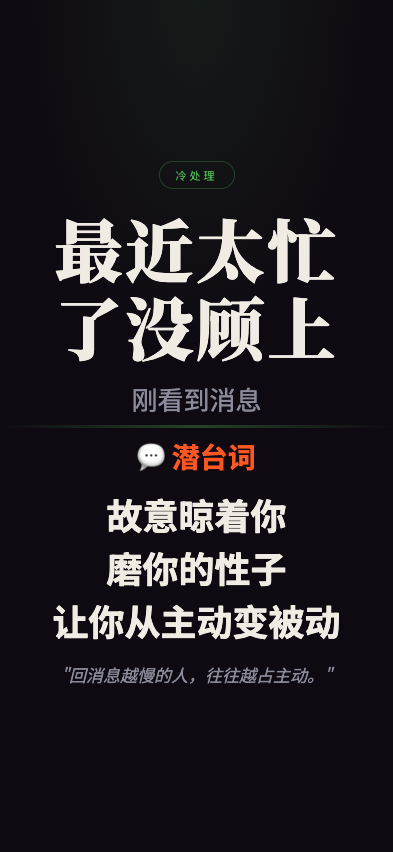
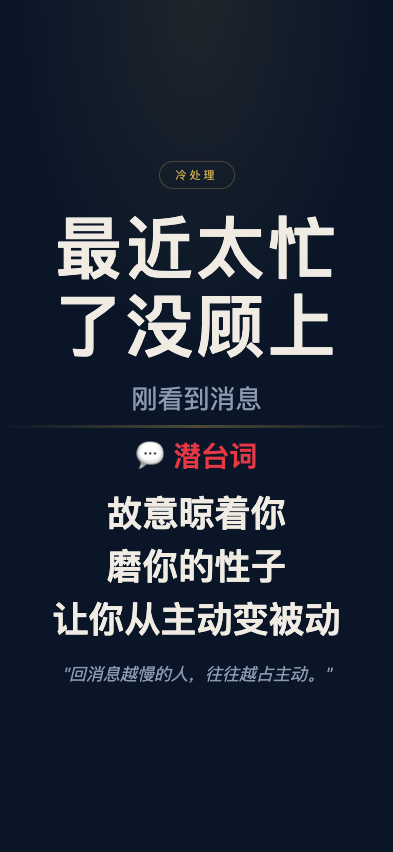
feat: 职场生存法则 screenshot - zuijintaimanglemeigushang

Changed region(s): [[0.1527, 0.2441, 0.855, 0.5493], [0.1221, 0.5798, 0.855, 0.8239], [0.4275, 0.1831, 0.5496, 0.2136]]

diff --git a/wuliao-tools/tools/biz-speak/scenes/zuijintaimanglemeigushang.html b/wuliao-tools/tools/biz-speak/scenes/zuijintaimanglemeigushang.html
@@ -7,11 +7,11 @@
 <link href="https://fonts.googleapis.com/css2?family=Noto+Serif+SC:wght@400;700;900&family=Noto+Sans+SC:wght@300;400;700&display=swap" rel="stylesheet">
 <style>
   :root {
-    --bg: #0f0a12;
+    --bg: #0a1628;
     --text: #f0ece4;
-    --text-dim: #8a8a9a;
-    --gold: #4caf50;
-    --red: #ff5722;
+    --text-dim: #8a9ab0;
+    --gold: #c9a84c;
+    --red: #e63946;
   }
   * { margin:0; padding:0; box-sizing:border-box; }
   html, body { width:100%; height:100%; overflow:hidden; }
@@ -24,11 +24,11 @@
   }
   body::before {
     content:''; position:absolute; top:0; left:0; right:0; height:45%;
-    background:radial-gradient(ellipse at 50% 0%, rgba(76,175,80,0.1) 0%, transparent 65%);
+    background:radial-gradient(ellipse at 50% 0%, rgba(201,168,76,0.1) 0%, transparent 65%);
     pointer-events:none; z-index:0;
   }
   .top { flex:1; display:flex; flex-direction:column; align-items:center; justify-content:flex-end; padding:4px 28px 8px; position:relative; z-index:1; }
-  .tag { font-size:11px; letter-spacing:3px; color:var(--gold); border:1px solid rgba(76,175,80,0.3); padding:5px 16px; border-radius:50px; margin-bottom:20px; }
+  .tag { font-size:11px; letter-spacing:3px; color:var(--gold); border:1px solid rgba(201,168,76,0.3); padding:5px 16px; border-radius:50px; margin-bottom:20px; }
   .main-title { font-family:'Noto Serif SC'; font-size:68px; font-weight:900; text-align:center; line-height:1.15; letter-spacing:3px; min-width:0; overflow-wrap:break-word; max-width:92%; }
   .sub-title { font-size:26px; color:var(--text-dim); text-align:center; margin-top:14px; }
   .divider { width:100%; height:3px; background:linear-gradient(90deg,transparent,var(--gold),transparent); opacity:0.35; flex-shrink:0; position:relative; z-index:1; }
@@ -39,7 +39,7 @@
   .quote { font-size:17px; color:var(--text-dim); font-style:italic; text-align:center; line-height:1.8; margin-top:18px; padding:0 12px; }
 </style>
 </head>
-<body>
+<body class="theme-1">
   <div class="top">
     <div class="tag">冷处理</div>
     <div class="main-title">最近太忙了没顾上</div>
@@ -49,9 +49,7 @@
   <div class="bottom">
     <div class="truth-label">💬 潜台词</div>
     <div class="truth-lines">
-      <div class="truth-line">故意晾着你</div>
-      <div class="truth-line">磨你的性子</div>
-      <div class="truth-line">让你从主动变被动</div>
+      <div class="truth-line">故意晾着你</div><div class="truth-line">磨你的性子</div><div class="truth-line">让你从主动变被动</div>
     </div>
     <div class="quote">"回消息越慢的人，往往越占主动。"</div>
   </div>
